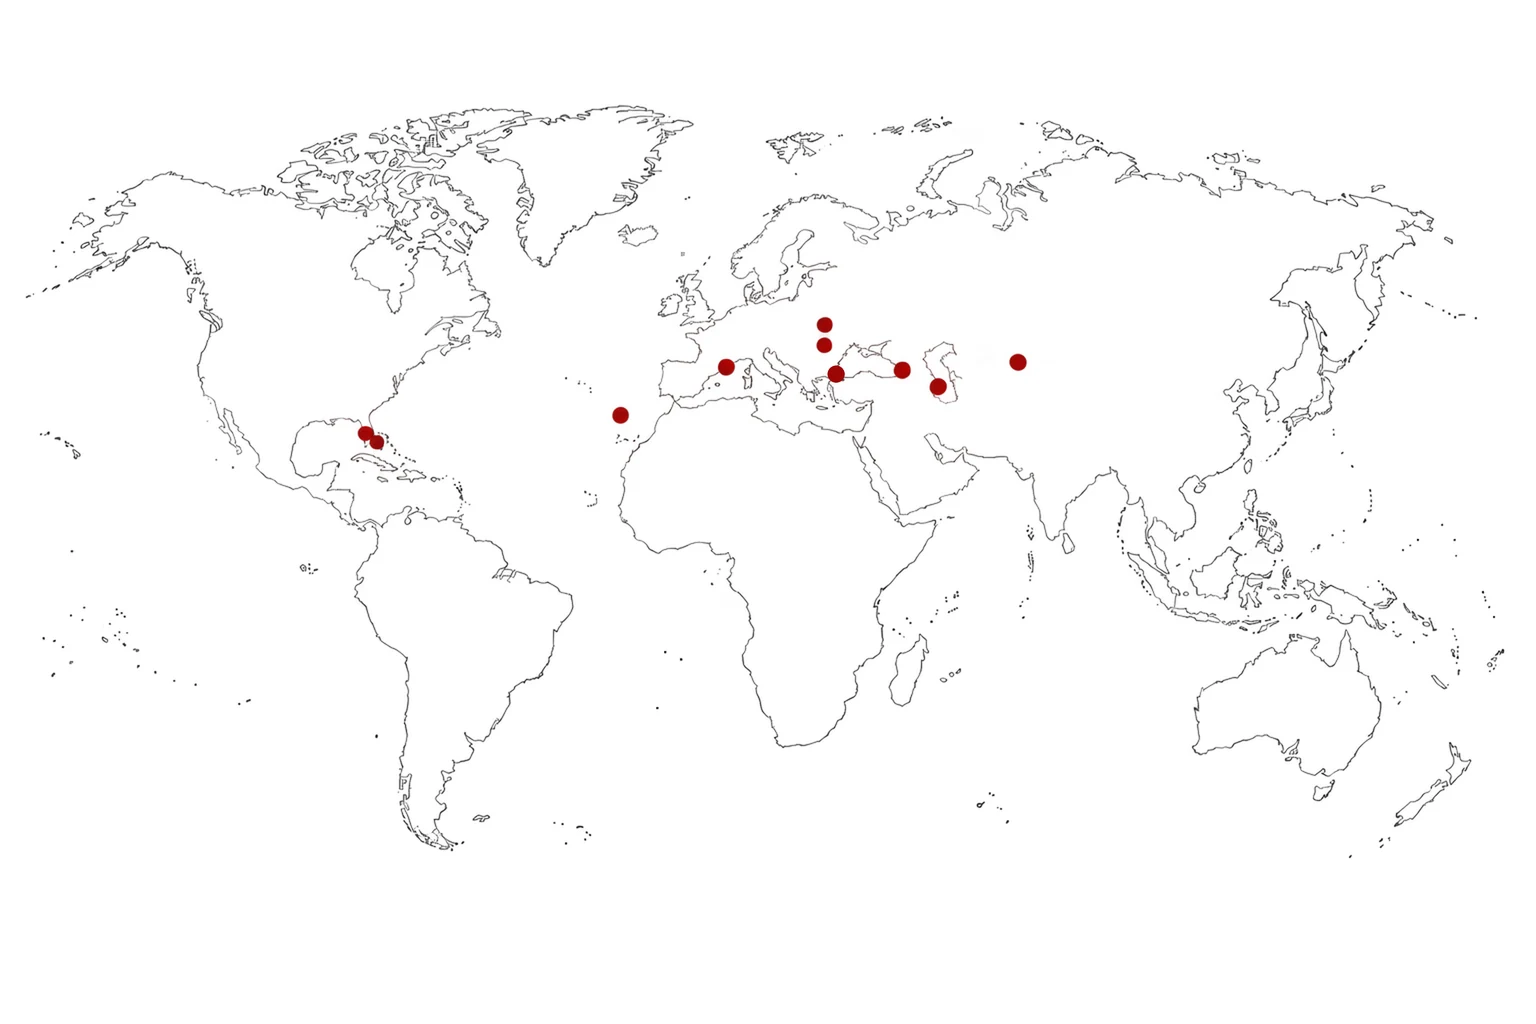
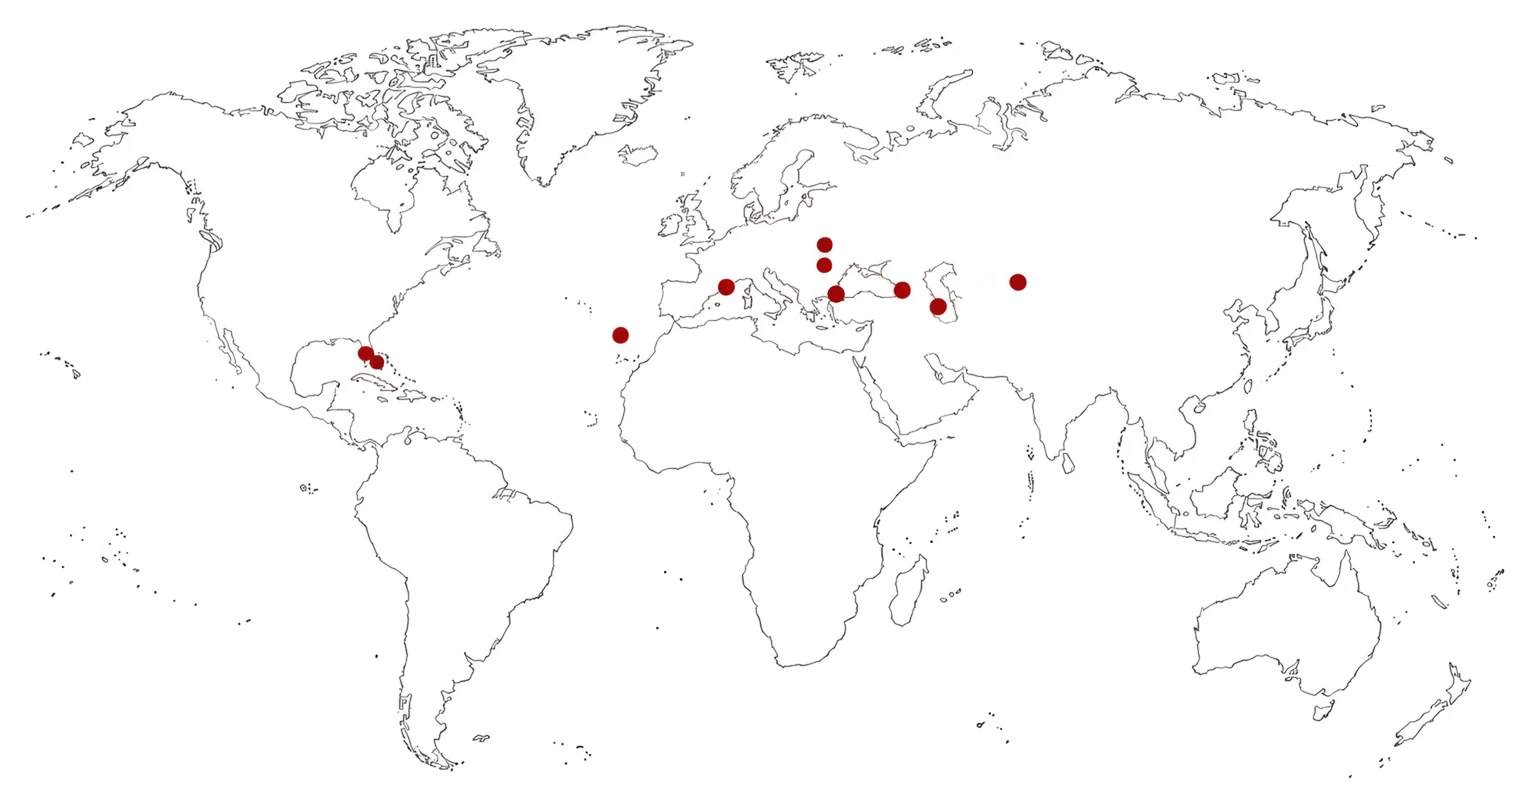
Tighter gap between the map and the footer heading
Claude-Session: https://claude.ai/code/session_01V6eJu1dSzFvvUSE1CfbGv7

diff --git a/src/app/clients/proposal/ClientLanding.css b/src/app/clients/proposal/ClientLanding.css
@@ -19,7 +19,7 @@ html.client-proposal-bg .app {
 .proposal-glitch-btn-wrap {
   display: flex;
   justify-content: flex-end;
-  padding: clamp(12px, 1.5vw, 24px) 100px clamp(20px, 2.5vw, 36px) 0;
+  padding: 8px 100px 12px 0;
   width: 100%;
   background: #fff;
 }

diff --git a/src/app/clients/proposal/ProposalFooter.css b/src/app/clients/proposal/ProposalFooter.css
@@ -1,6 +1,6 @@
 .proposal-footer {
   border-top: 1px solid #eee;
-  padding: clamp(48px, 6vw, 80px) 24px;
+  padding: clamp(28px, 3.5vw, 48px) 24px clamp(48px, 6vw, 80px);
   background: #fff;
 }
 
